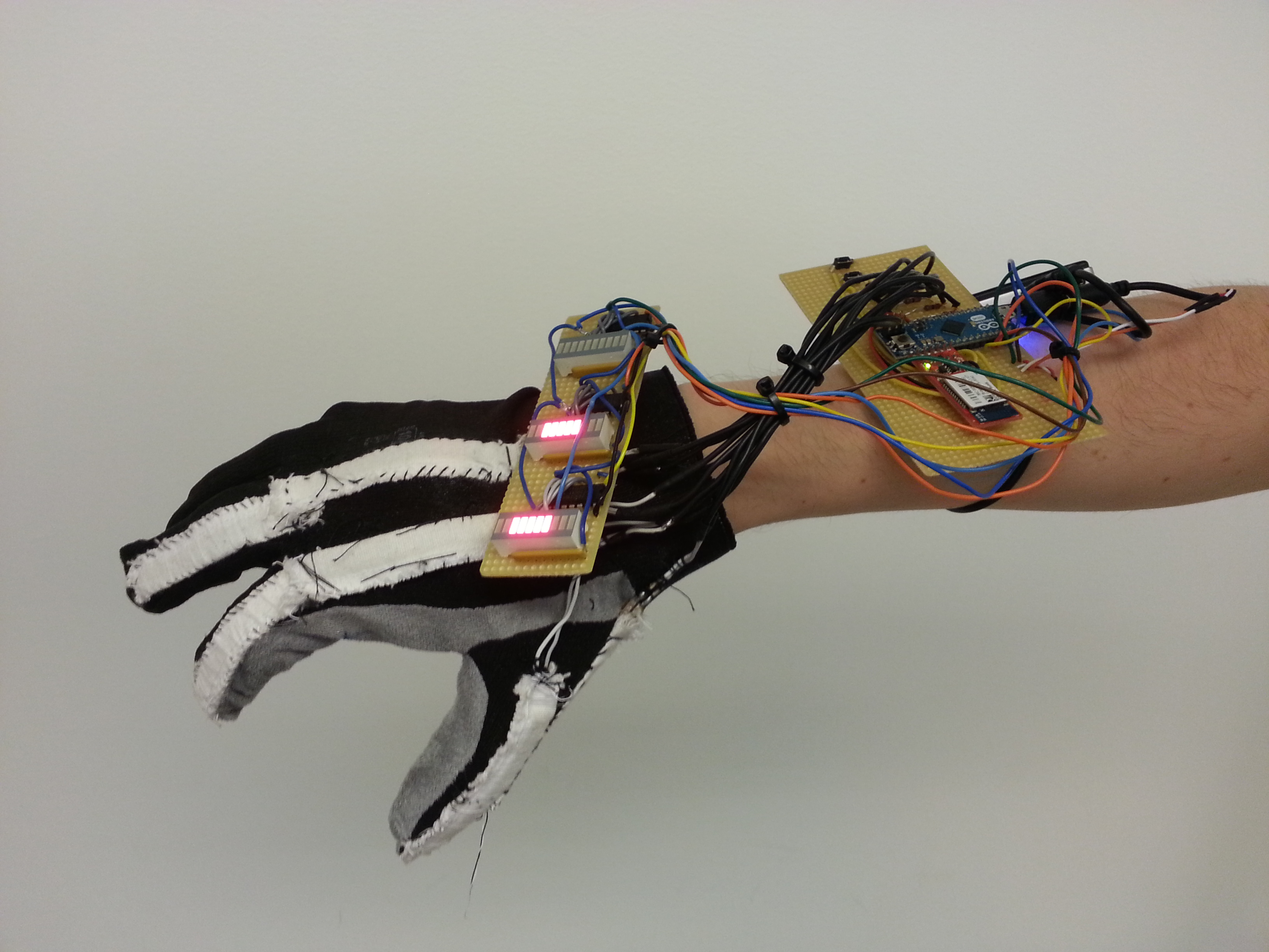
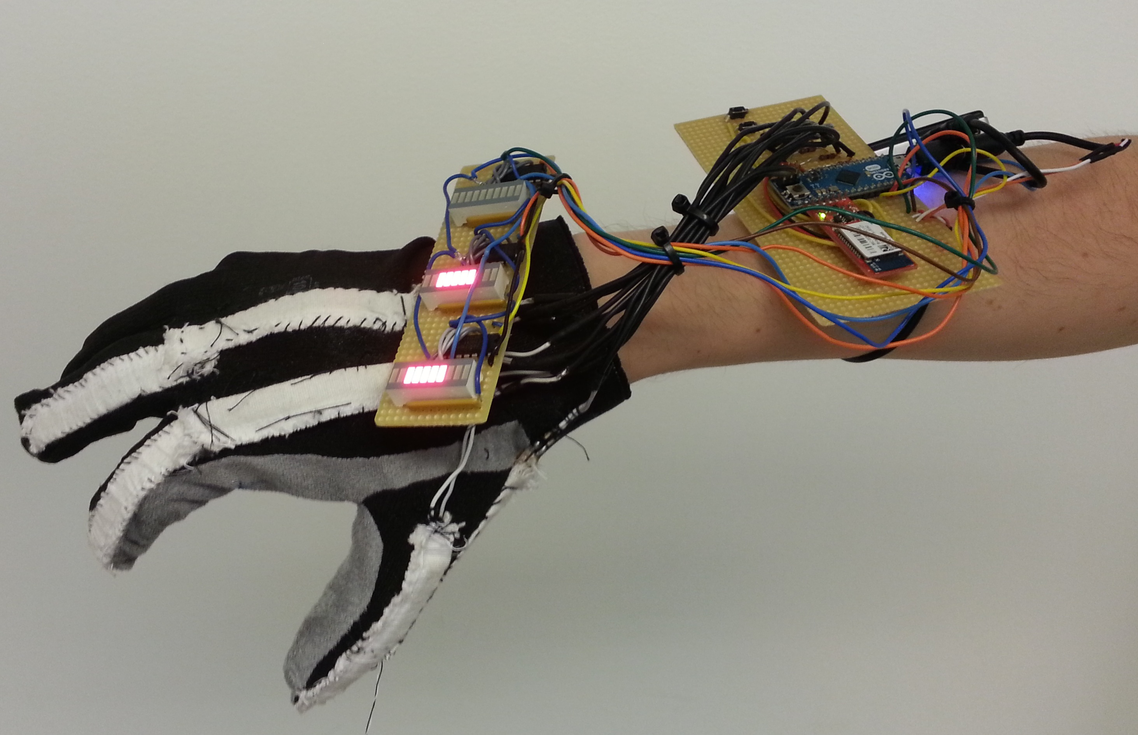
styrhandske

diff --git a/Slutrapport/text/konstruktion/styrhandske.tex b/Slutrapport/text/konstruktion/styrhandske.tex
@@ -7,9 +7,14 @@
 %Detta är intro. Det ska inte vara några detaljer här, bara översiktligt!
 % Konvention: styrhandske, inte reglerhandske eller kontrollhanske
 
-För att intuitivt reglera robothanden används en tunn handske som användaren bär på sin hand. På handskens tumme, långfinger och pekfinger finns det två flexsensorer vardera, se figur \ref{kontrollhandske}, som följer användarens hand och ändrar resistans beroende på hur mycket de böjs. På handsken sitter det även tre ledramper som indikerar hur hårt man påverkar objektet. Det tänds fler ledlampor ju större trycket på trycksensorerna är. För att strömförsörja Arduinon, bluetoothmodulen och ledramperna används ett powerpack på 5 Volt, se referenslista \ref{chp:komponentlista}. Fullständigt kretsschema, se \ref{schemahandske}. 
+För att intuitivt reglera robothanden används en tunn handske som användaren bär på sin hand, se \ref{styrhandskediod}. På handskens tumme, långfinger och pekfinger finns det två flexsensorer vardera, se figur \ref{kontrollhandske}, som följer användarens hand och ändrar resistans beroende på hur mycket de böjs. På handsken sitter det även tre ledramper som indikerar hur hårt man påverkar objektet. Det tänds fler ledlampor ju större trycket på trycksensorerna är. För att strömförsörja Arduinon, bluetoothmodulen och ledramperna används ett powerpack på 5 Volt, se referenslista \ref{chp:komponentlista}. Fullständigt kretsschema, se \ref{schemahandske}.
+ \begin{figure}[H]
+\includegraphics[height=0.4\textheight]{img/styrhandskediod}
+\caption{Styrhandsken.}
+\label{styrhandskediod}
+\end{figure}
 
-\comment{öjeling: fin bild hur signaler åker runt}
+
 
 
 
